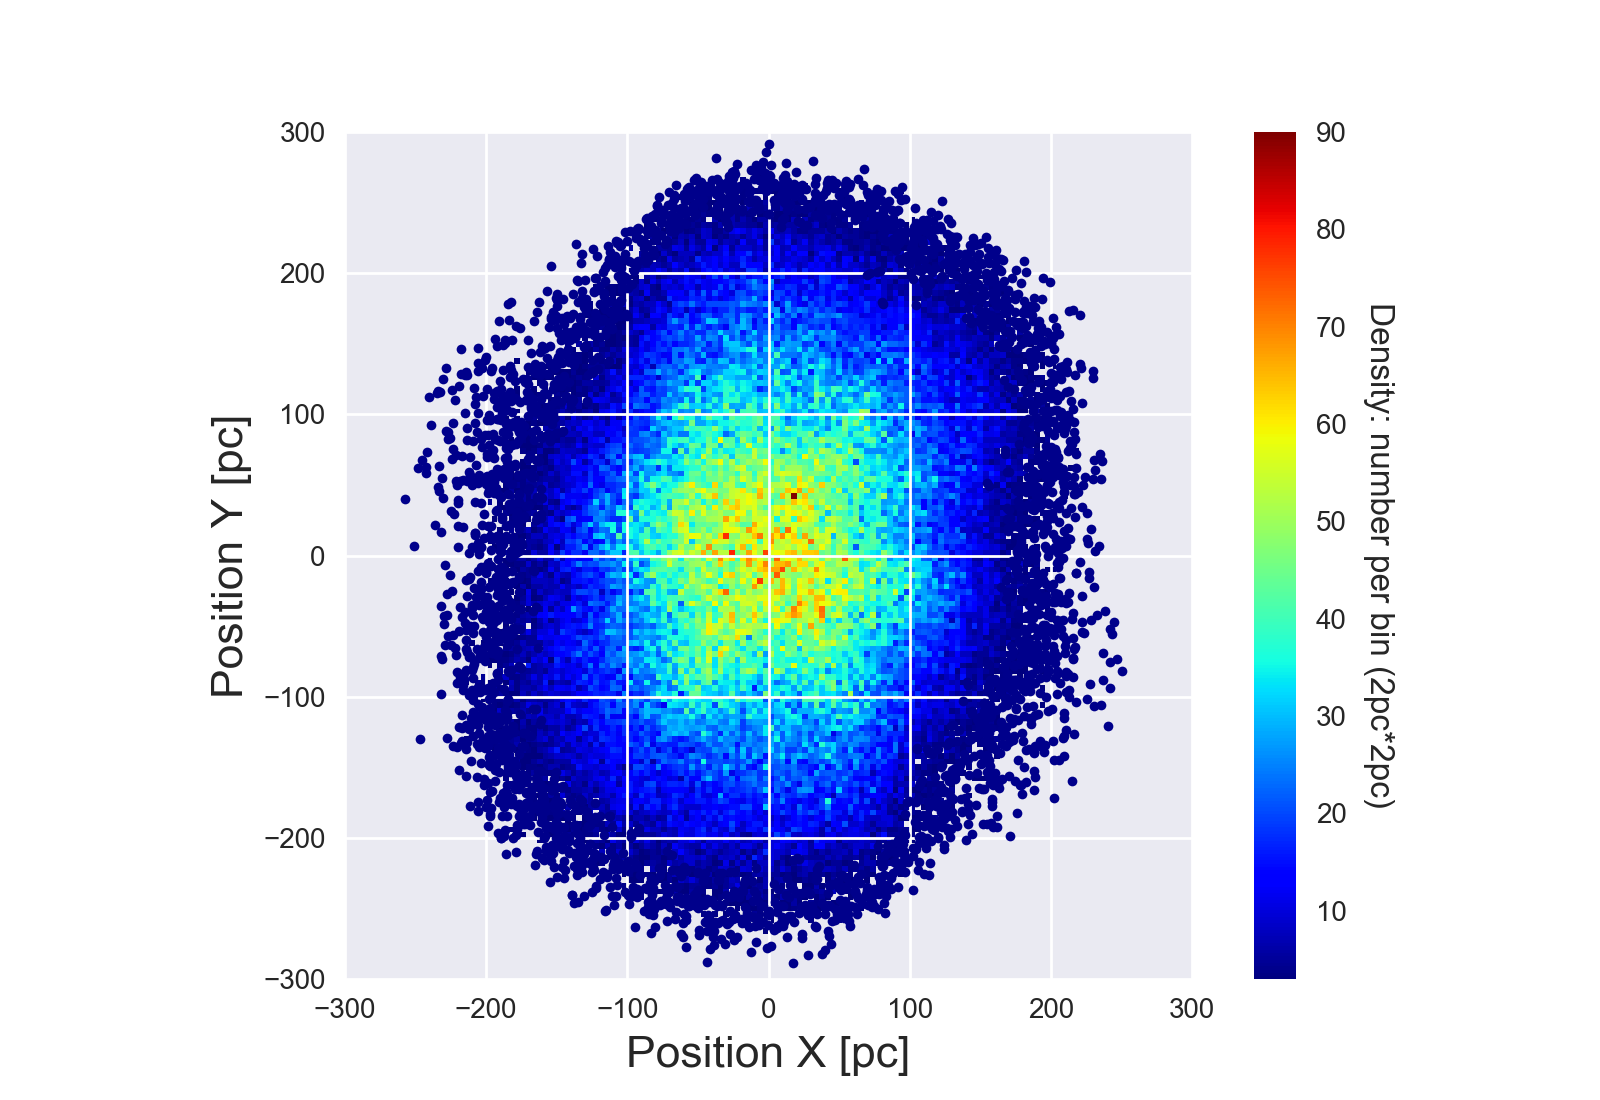
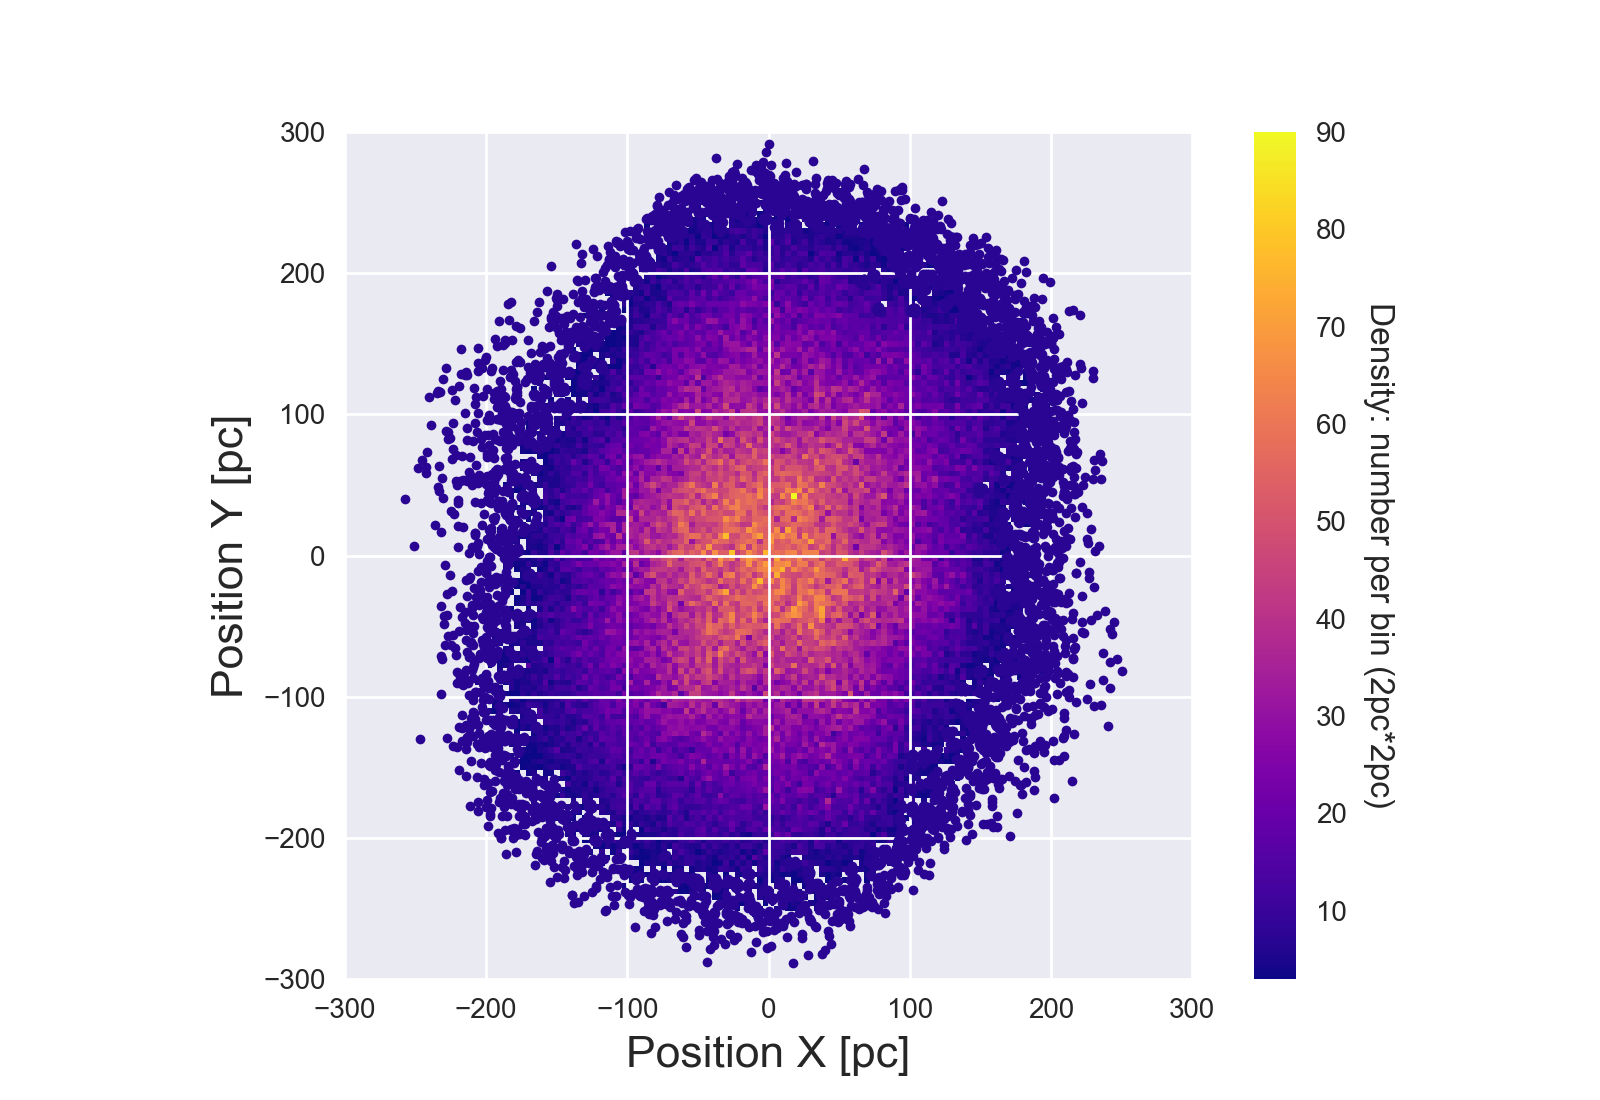
Implemented new codes to draw 2D distribution of transverse velocities of stars

Changed region(s): [[0.25, 0.1236, 0.7188, 0.8655], [0.7812, 0.1236, 0.8125, 0.8964]]

diff --git a/velocity_distribution_2D.py b/velocity_distribution_2D.py
@@ -1,63 +1,47 @@
-import astropy
 import numpy as np
 import matplotlib.pyplot as plt
-import plotly
-import plotly.plotly as py
-import plotly.figure_factory as ff
-import pandas as pd
-from mpl_toolkits.mplot3d import Axes3D
 import astropy.io.fits as fits
-import sys, os, time, string, math, subprocess
-from scipy.stats import gaussian_kde, stats
 import seaborn as sns
 sns.set(color_codes=True)
-import numpy.random
 import scipy
 
-#================ input data using class ===================
+# ================ Import data using class ===================
 
 class DATA(object):
-
     def __init__(self):
-        #read in data from Gaia file
+        # read in data from Gaia file
         self.file=fits.open('tgas-source.fits')
         self.data_list=self.file[1]
 
-# ================ select data with low noise ===================
+# ================ Select data with low noise ===================
 
+# Choose parallax data
 data1=DATA()
-#chose parallax data
-parallax=data1.data_list.data['parallax'] #in mas(milliarcsecond) = 0.001 arcsecond = 1/3600000 degree
-parallax_error=data1.data_list.data['parallax_error'] #error
+parallax=data1.data_list.data['parallax'] # in mas(milliarcsecond) = 0.001 arcsecond = 1/3600000 degree
+parallax_error=data1.data_list.data['parallax_error'] # error
 
-#calculate ratio
+# Calculate noise ratio
 ratio=parallax/parallax_error
 
-#select data that we want
-highSNindices = ratio > 16. #The ones with high signal to noise
+# Select data that we want
+highSNindices = ratio > 16. # The ones with high signal to noise ratio
 
-#locations of data we want
-#np.where(highSNindices)
+# Distances of the stars from valid data
+distance=1./parallax[highSNindices] # in Kpc = 1000 parsecs = 3262 light-years
 
-#distances we want from valid data
-distance=1./parallax#[highSNindices] in Kpc = 1000 parsecs = 3262 light-years'''
+# ================ Calculate velocity from proper motion ===================
 
-#================ calculate velocity from proper motion ===================
+# Proper motion right ascension and declination
+pmra = data1.data_list.data['pmra'] # in mas/year
+pmdec = data1.data_list.data['pmdec'] # in mas/year
 
-#proper motion right ascension and declination
-pmra=data1.data_list.data['pmra'] #in mas/year
-pmdec=data1.data_list.data['pmdec'] #in mas/year
+# Transverse velocity v = 4.74*(proper motion angular velocity[arcsec/year])*distance[parsec]*10**3 #m/s
+transv_ra = 4.74*pmra[highSNindices]*distance*10**3 # m/s
+transv_dec = 4.74*pmdec[highSNindices]*distance*10**3 # m/s
+transverse_vsqared = transv_ra**2+transv_dec**2
+transverse_v = transverse_vsqared**(.5)
 
-#transverse velocity v = 4.74*(proper motion angular velocity[arcsec/year])*distance[parsec]*10**3 #m/s
-transv_ra=4.74*pmra*distance*10**3 #[highSNindices]m/s
-transv_dec=4.74*pmdec*distance*10**3 #[highSNindices]m/s
-
-
-transverse_vsqared=transv_ra**2+transv_dec**2
-transverse_v=transverse_vsqared**(.5)
-
-# (04/19/2017) pytest
-# define the function "transverse_velocity()" for test on Travis
+# Define the function "transverse_velocity()" for test on Travis
 def transverse_velocity(number):
     v=transverse_v[number]
 
@@ -68,155 +52,114 @@ def transverse_velocity(number):
     elif v == 0:
         return 'Transverse velocity is 0'
 
-#================ plot distance, velocity ===================
-'''
-#plotting
-plt.hist(distance,bins=100)
-plt.plot(distance,transverse_v,marker='.',linestyle="None", alpha=.5)
+# ================ Plot velocity magnitude distribution ===================
 
-limit on transverse velocity
-plt.xlim([0,150000])
+plt.figure(1)
+# Plot histogram of transverse velocity distribution
+plt.hist(transverse_v, bins=500, color="darkblue")
 
-#lables for distance
-plt.xlabel('distance[kpc]')
+# Limit on transverse velocity
+plt.xlim([0, 150000])
+
+# Lables for axis
+plt.xlabel('Transverse Velocity [m/s]')
 plt.ylabel('Number')
-plt.title('Distribution of Distance Based on Parallax')
+plt.title('Distribution of Transverse Velocity')
 
-plt.show()
-plt.savefig('highsnVelocities.png')
-'''
+# ================ Calculate parameters for data points ===================
 
-#================ visualize stars' position in 3D plot of all valid data ===================
-
-#right ascension and declination
-right_ascension=data1.data_list.data['ra'] #in degree
-declination=data1.data_list.data['dec'] #in degree
-ra=right_ascension*(3.14/180)#[highSNindices] in radian
-dec=declination*(3.14/180)#[highSNindices] in radian
+# Right ascension and declination
+right_ascension = data1.data_list.data['ra'] # in degree
+declination = data1.data_list.data['dec'] # in degree
+ra = right_ascension[highSNindices]*(3.14/180) # in radian
+dec = declination[highSNindices]*(3.14/180) # in radian
 
 # (04/04/2017) Class
-# Create a class to access the coordinates later for 3D and 2D
-class coordinates():
+# Create a class to access the coordinates and velocities later for 3D and 2D plots
+class parameters():
     def __init__(self):
         # Express the mesh in the cartesian system.
-        self.X=distance*1000*np.cos(dec)*np.cos(ra) #in parsec = 3.262 light-years
-        self.Y=distance*1000*np.cos(dec)*np.sin(ra) #in parsec = 3.262 light-years
-        self.Z=distance*1000*np.sin(dec) #in parsec = 3.262 light-years
+        self.X = distance*1000*np.cos(dec)*np.cos(ra) # in parsec = 3.262 light-years
+        self.Y = distance*1000*np.cos(dec)*np.sin(ra) # in parsec = 3.262 light-years
+        self.Z = distance*1000*np.sin(dec) # in parsec = 3.262 light-years
+        self.V = transverse_v # in m/s
 
+# ================ Visualize stars' 2D density distribution ===================
 
-'''
-#Get the coordinates for 3D plot
-coor3D = coordinates();
-print (coor3D.X)
+# Get the coordinates for plot
+par = parameters()
 
-print ("Max value on X: ", coor3D.X.max())
-print ("Min value on X: ", coor3D.X.min())
-print ("Max value on Y: ", coor3D.Y.max())
-print ("Min value on Y: ", coor3D.Y.min())
+# Print maximum and minimum values of position and velocity
+print ("Max value on X: ", par.X.max())
+print ("Min value on X: ", par.X.min())
+print ("Max value on Y: ", par.Y.max())
+print ("Min value on Y: ", par.Y.min())
+print ("Min value on V: ", par.V.min())
 
+# Histogram settings
+xyrange = [[-300,300],[-300,300]] # data range
+bins = [150,150] # number of bins
+thresh = 3  # density threshold
 
-print ("Max value on Z: ", coor3D.Z.max())
-print ("Min value on Z: ", coor3D.Z.min())
+# Histogram the data
+hh, locx, locy = scipy.histogram2d(par.X, par.Y, range=xyrange, bins=bins)
+posx = np.digitize(par.X, locx)
+posy = np.digitize(par.Y, locy)
 
-
-
-
-#================ visualize stars' density with color in 3D plot of all valid data ===================
-
-#plot with ra, dec, and distance
-fig=plt.figure()
-ax=fig.add_subplot(111,projection='3d')
-
-#calculate the point density
-#XYZ = np.vstack([X,Y,Z])
-#C = gaussian_kde(XYZ)(XYZ)(XYZ)
-
-#fig, ax = plt.subplots()
-#plt.scatter(X, Y, Z, c=C, s=100, edgecolor='')
-#plt.show()
-
-#ax.set_xlim(-10**5,10**5)
-#ax.set_ylim(-10**5,10**5)
-#ax.set_zlim(-10**5,10**5)
-
-
-#plt.scatter(X,Y,Z,marker=".")
-# The above line Produces a disk instead of sphere. With high signal to noise data, far away stars are not included,
-# and the scale is not big enough to show the shape of the Milky Way (diameter 30kpc, thickness 0.3kpc)
-
-ax.scatter(coor3D.X, coor3D.Y, coor3D.Z, 'ob', alpha=0.05, lw=0)
-# The above line works almost as ax.plot(X,Y,Z, 'ob', alpha=0.05, lw=0) or plt.plot(X,Y,Z, 'ob', alpha=0.05, lw=0)
-
-ax.set_xlabel('Distance X [pc]')
-ax.set_ylabel('Distance Y [pc]')
-ax.set_zlabel('Distance Z [pc]')
-plt.title('Distribution of All Valid Data')
-
-plt.show()
-'''
-
-#================ visualize stars' density with color in 2D plot of all valid data ===================
-
-#Get the coordinates for 3D plot
-coor2D = coordinates();
-print (coor2D.X)
-
-print ("Max value on X: ", coor2D.X.max())
-print ("Min value on X: ", coor2D.X.min())
-print ("Max value on Y: ", coor2D.Y.max())
-print ("Min value on Y: ", coor2D.Y.min())
-
-
-'''
-#check how the data set arrays look like
-#data definition
-N = 1e5;
-xdat, ydat = np.random.normal(size=N), np.random.normal(1, 0.6, size=N)
-print(xdat)
-print(ydat)
-print(len(xdat))
-print(len(ydat))
-print(len(coor2D.X))
-print(len(coor2D.Y))
-'''
-#(04/26/2017) Plot 2D density distribution
-#histogram definition
-xyrange = [[-500,500],[-500,500]] # data range
-bins = [250,250] # number of bins
-thresh = 3  #density threshold
-#histogram the data
-hh, locx, locy = scipy.histogram2d(coor2D.X, coor2D.Y, range=xyrange, bins=bins)
-posx = np.digitize(coor2D.X, locx)
-posy = np.digitize(coor2D.Y, locy)
-#select points within the histogram
+# Select points within the histogram
 ind = (posx > 0) & (posx <= bins[0]) & (posy > 0) & (posy <= bins[1])
-hhsub = hh[posx[ind] - 1, posy[ind] - 1] # values of the histogram where the points are
-xdat1 = coor2D.X[ind][hhsub < thresh] # low density points
-ydat1 = coor2D.Y[ind][hhsub < thresh]
+hhsub = hh[posx[ind], posy[ind]] # values of the histogram where the points are
+xdat1 = par.X[ind][hhsub < thresh] # low density points
+ydat1 = par.Y[ind][hhsub < thresh]
 hh[hh < thresh] = np.nan # fill the areas with low density by NaNs
+
 # Make the plot
-plt.imshow(np.flipud(hh.T),cmap='jet',extent=np.array(xyrange).flatten(), interpolation='none', origin='upper')
+plt.figure(2)
+plt.imshow(np.flipud(hh.T),cmap='plasma',extent=np.array(xyrange).flatten(), interpolation='none', origin='upper')
 clb=plt.colorbar()
-#clb.ax.yaxis.tick_right()
-clb.ax.set_yticklabels(['20','40','60','80','100'],fontsize=10)
+clb.ax.set_yticklabels(['10','20','30','40','50','60','70','80','90'],fontsize=10)
 clb.set_label('Density: number per bin (2pc*2pc)', rotation=270, fontsize=12)
+clb.ax.xaxis.set_label_coords(3.3, 0.5)
 clb.ax.yaxis.set_label_coords(3.3, 0.5)
-plt.plot(xdat1, ydat1, '.',color='darkblue')
-plt.plot(xdat1, ydat1, '.',color='darkblue')
-#plt.title('Density Distribution of Stars (with High Signal to Noise Ratio)', fontsize=20)
+plt.plot(xdat1, ydat1, '.',color=sns.color_palette(palette="plasma", n_colors=20)[0])
 plt.xlabel('Position X [pc]', fontsize = 16)
 plt.ylabel('Position Y [pc]', fontsize = 16)
+
+# ================ Visualize stars' transverse velocity ===================
+
+# Print position and velocity values of and the length of each array
+print(par.X)
+print(par.Y)
+print(par.V)
+print(len(par.X))
+print(len(par.Y))
+print(len(par.V))
+
+# Create linear space to store data
+x_position = np.linspace(-300,300,50)
+y_position = np.linspace(-300,300,50)
+v_matrix = np.zeros([50,50])
+
+# Use while loop to create transverse velocity matrix
+i = 0
+while i<197105:
+    x_ind = x_position.searchsorted(par.X[i])
+    y_ind = y_position.searchsorted(par.Y[i])
+    v_matrix[y_ind][-x_ind] = np.log(par.V[i])
+    i += 1
+
+# Print the matrix that stores transverse velocities for plot
+print(v_matrix)
+
+# Make the plot of stars' transverse velocity in 2D
+plt.figure(3)
+plt.imshow(v_matrix,cmap='plasma',extent=np.array(xyrange).flatten(), interpolation='bicubic', origin='upper',vmin=3.5, vmax=12)
+clb=plt.colorbar()
+clb.ax.set_yticklabels(['$10^4$','$10^5$','$10^6$','$10^7$','$10^8$','$10^9$','$10^{10}$','$10^{11}$','$10^{12}$'], fontsize=10)
+clb.set_label('Velocity Distribution of Stars', rotation=270, fontsize=12)
+clb.ax.xaxis.set_label_coords(3.3, 0.5)
+clb.ax.yaxis.set_label_coords(3.8, 0.5)
+plt.xlabel('Position X [pc]', fontsize=16)
+plt.ylabel('Position Y [pc]', fontsize=16)
 plt.show()
 
-
-
-'''
-colorscale = ['#7A4579', '#D56073', 'rgb(236,158,105)', (1, 1, 0.2), (0.98,0.98,0.98)]
-
-fig = ff.create_2d_density(
-    coor2D.X, coor2D.Y, colorscale=colorscale,
-    hist_color='rgb(255, 237, 222)', point_size=3
-)
-
-py.iplot(fig, filename='histogram_subplots')
-'''

diff --git a/density_distribution_2D.py b/density_distribution_2D.py
@@ -1,19 +1,20 @@
-import astropy
 import numpy as np
 import matplotlib.pyplot as plt
+import astropy.io.fits as fits
+import seaborn as sns
+sns.set(color_codes=True)
+import scipy
+import astropy
+from matplotlib.colors import LogNorm
 import plotly
 import plotly.plotly as py
 import plotly.figure_factory as ff
 import pandas as pd
 from mpl_toolkits.mplot3d import Axes3D
-import astropy.io.fits as fits
 import sys, os, time, string, math, subprocess
 from scipy.stats import gaussian_kde, stats
-import seaborn as sns
-sns.set(color_codes=True)
 import numpy.random
-import scipy
-
+from scipy.interpolate import interp2d
 #================ input data using class ===================
 
 class DATA(object):
@@ -26,7 +27,7 @@ class DATA(object):
 # ================ select data with low noise ===================
 
 data1=DATA()
-#chose parallax data
+#choose parallax data
 parallax=data1.data_list.data['parallax'] #in mas(milliarcsecond) = 0.001 arcsecond = 1/3600000 degree
 parallax_error=data1.data_list.data['parallax_error'] #error
 
@@ -35,9 +36,6 @@ ratio=parallax/parallax_error
 
 #select data that we want
 highSNindices = ratio > 16. #The ones with high signal to noise
-
-#locations of data we want
-#np.where(highSNindices)
 
 #distances we want from valid data
 distance=1./parallax[highSNindices] #in Kpc = 1000 parsecs = 3262 light-years

diff --git a/density_distribution_2D_all_data.py b/density_distribution_2D_all_data.py
@@ -195,7 +195,7 @@ xdat1 = coor2D.X[ind][hhsub < thresh] # low density points
 ydat1 = coor2D.Y[ind][hhsub < thresh]
 hh[hh < thresh] = np.nan # fill the areas with low density by NaNs
 # Make the plot
-plt.imshow(np.flipud(hh.T),cmap='jet',extent=np.array(xyrange).flatten(), interpolation='none', origin='upper')
+plt.imshow(np.flipud(hh.T),cmap='plasma',extent=np.array(xyrange).flatten(), interpolation='none', origin='upper')
 clb=plt.colorbar()
 #clb.ax.yaxis.tick_right()
 clb.ax.set_yticklabels(['20','40','60','80','100'],fontsize=10)

diff --git a/test_transverse_v.py b/test_transverse_v.py
@@ -1,7 +1,7 @@
 #file located in Gaia/
 #filename = test_transverse_v.py
 
-from density_distribution_2D_all_data import transverse_velocity
+from velocity_distribution_2D import transverse_velocity
 import pytest
 
 #assert checks true/false
